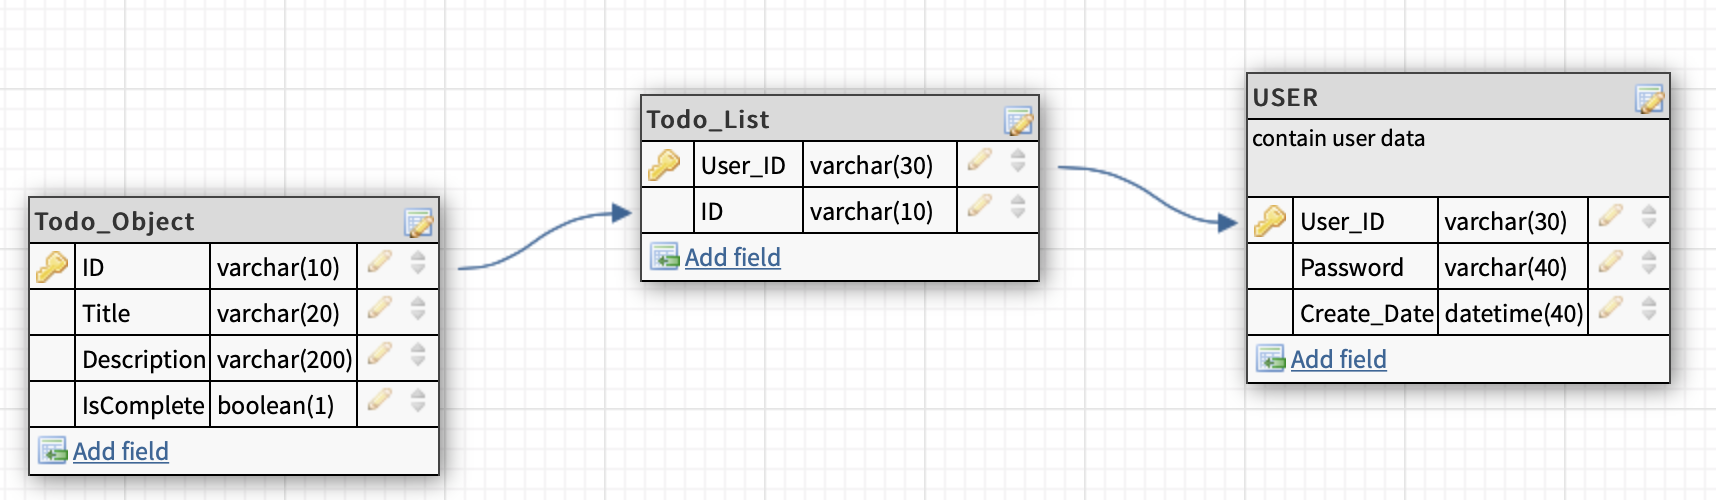
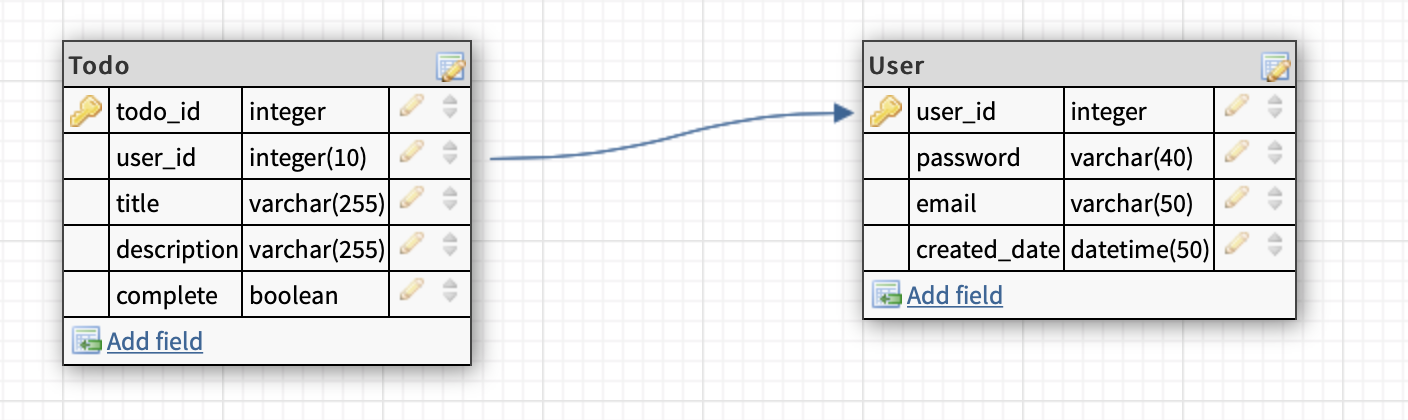
add definiton of db sql

Changed region(s): [[0.0, 0.0619, 1.0, 0.9905]]

diff --git a/README.md b/README.md
@@ -36,3 +36,30 @@ set system_time_zone = 'Asia/Seoul';
 
 ### DB Schema 
 <img src="/DB Schema.png" title="DB Schema"></img>
+
+
+### DB Definition 
+```
+CREATE SCHEMA `TODO_LIST`;
+
+USE TODO_LIST;
+
+CREATE TABLE `User` (
+    `user_id` INT NOT NULL AUTO_INCREMENT,
+    `password` varchar(40) NOT NULL UNIQUE,
+    `email` varchar(50) NOT NULL UNIQUE,
+    `created_date` DATETIME NOT NULL UNIQUE,
+    PRIMARY KEY (`user_id`)
+);
+
+CREATE TABLE `Todo` (
+    `todo_id` INT NOT NULL AUTO_INCREMENT,
+    `title` varchar(255) NOT NULL UNIQUE,
+    `description` varchar(255) NOT NULL UNIQUE,
+    `user_id` INT NOT NULL,
+    `complete` BOOLEAN NOT NULL UNIQUE,
+    PRIMARY KEY (`todo_id`)
+);
+
+ALTER TABLE `Todo` ADD CONSTRAINT `Todo_fk0` FOREIGN KEY (`user_id`) REFERENCES `User`(`user_id`);
+```
